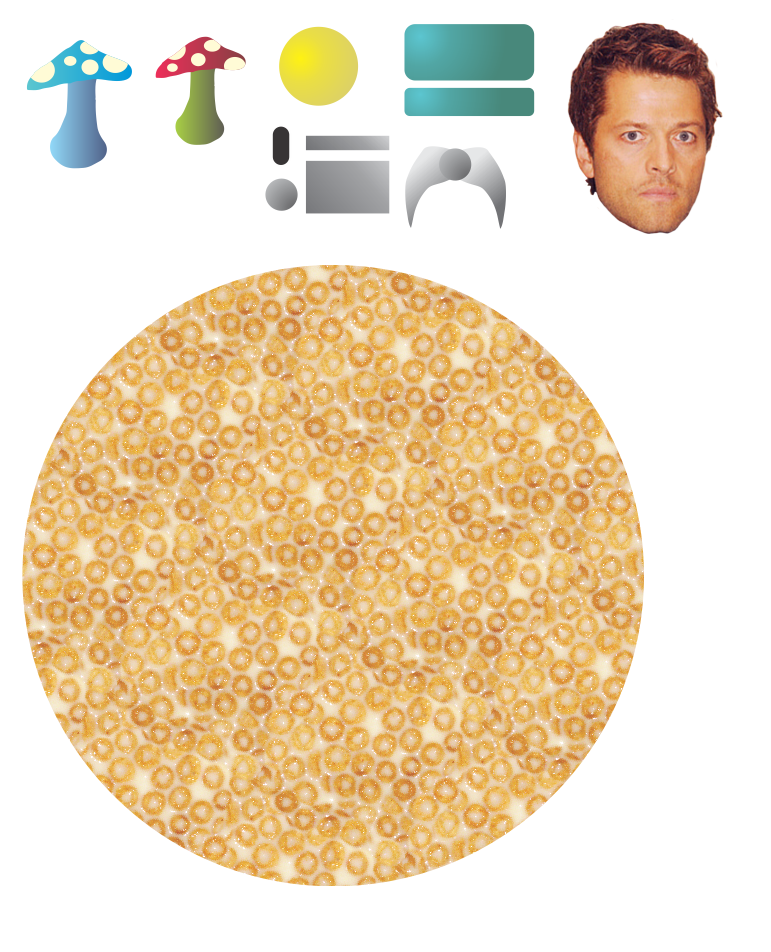
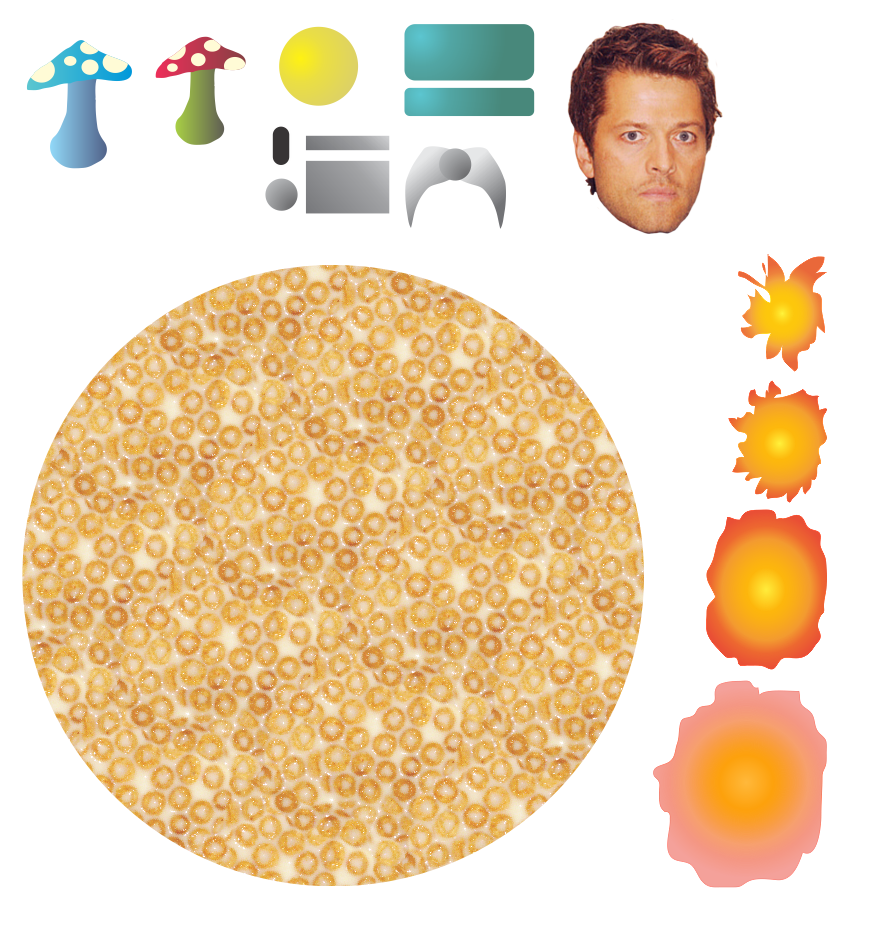
Explosion update

diff --git a/src/img/spriteinfo.js b/src/img/spriteinfo.js
@@ -111,36 +111,36 @@ spritesheetplot = {
     "name": "explosion",
     sequence: [ 
       {
-        "left": 277,
-        "top": 25,
-        "width": 83,
-        "height": 83,
-        "centerX": 42,
-        "centerY": 42
+        "left": 735,
+        "top": 251,
+        "width": 94,
+        "height": 124,
+        "centerX": 48,
+        "centerY": 64
       },
       {
-        "left": 277,
-        "top": 25,
-        "width": 83,
-        "height": 83,
-        "centerX": 35,
-        "centerY": 35
+        "left": 418,
+        "top": 380,
+        "width": 102,
+        "height": 124,
+        "centerX": 54,
+        "centerY": 65
       },
       {
-        "left": 277,
-        "top": 25,
-        "width": 83,
-        "height": 83,
-        "centerX": 42,
-        "centerY": 42
+        "left": 704,
+        "top": 507,
+        "width": 126,
+        "height": 166,
+        "centerX": 66,
+        "centerY": 83
       },
       {
-        "left": 277,
-        "top": 25,
-        "width": 83,
-        "height": 83,
-        "centerX": 47,
-        "centerY": 48
+        "left": 649,
+        "top": 678,
+        "width": 181,
+        "height": 215,
+        "centerX": 98,
+        "centerY": 106
       },
     ]
   },
